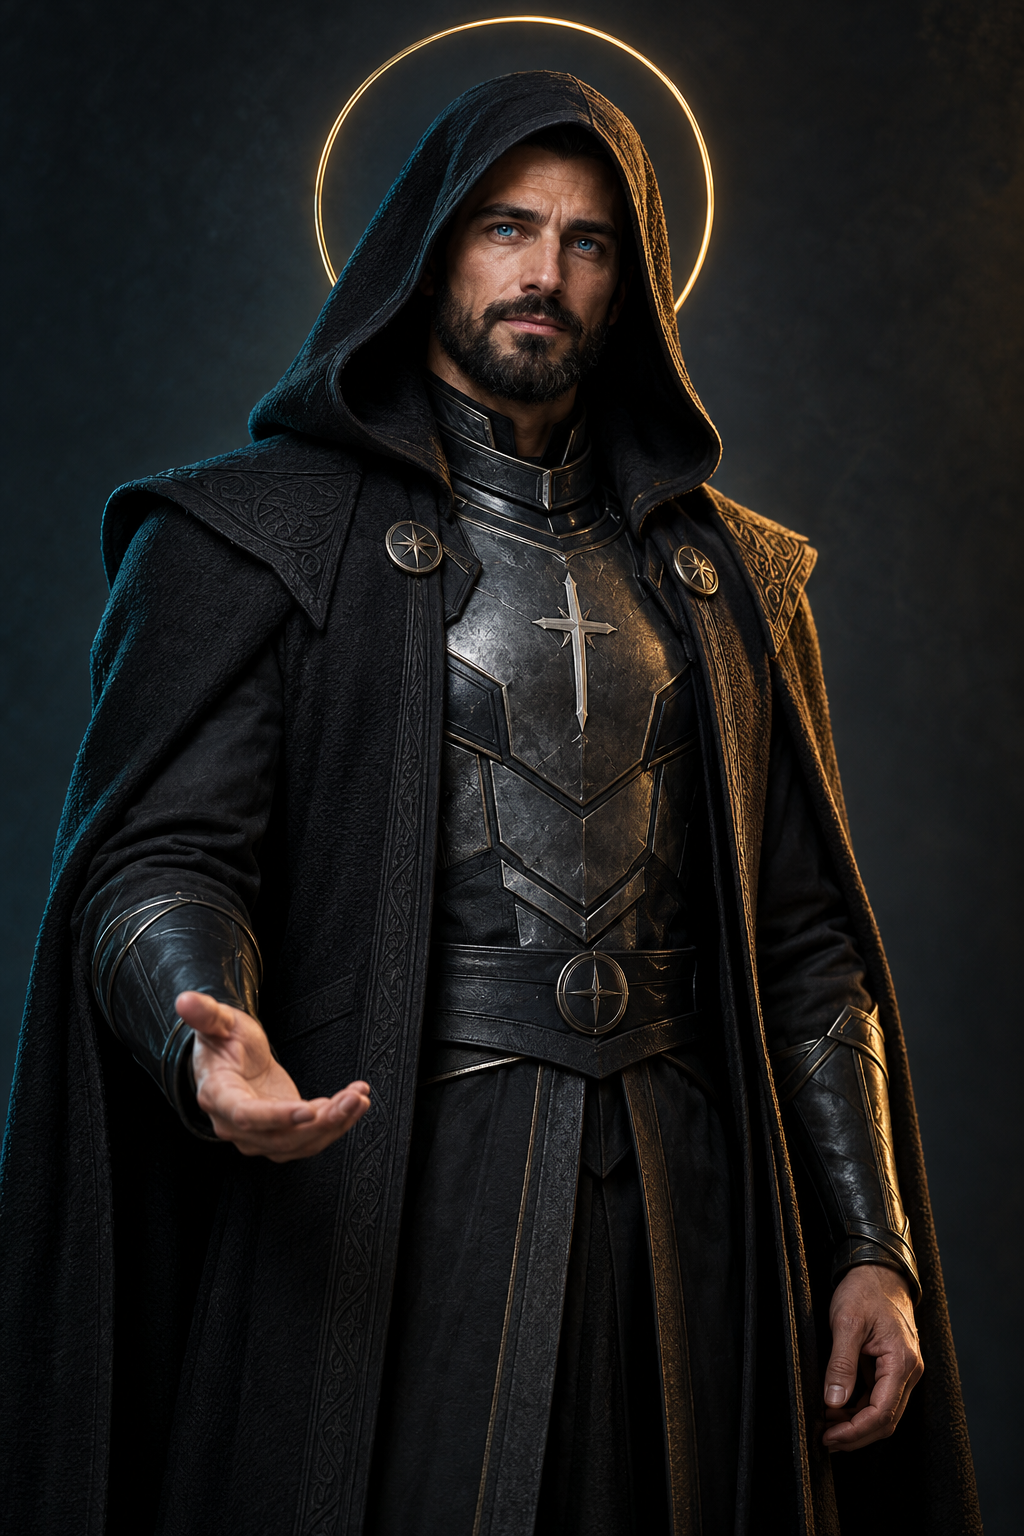
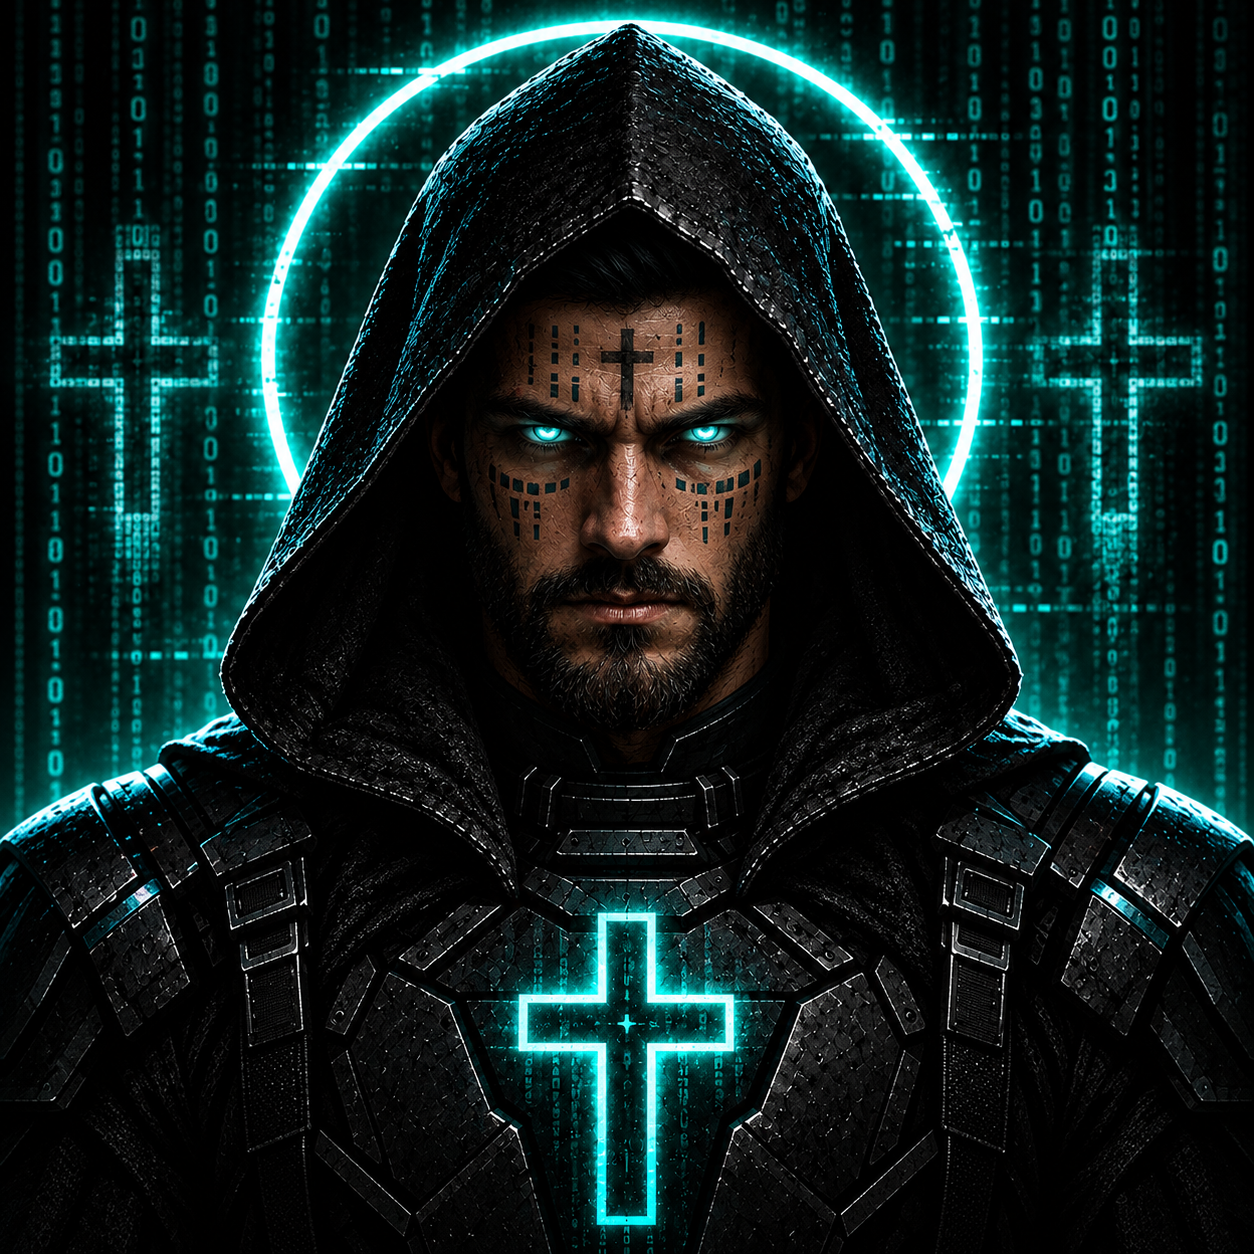
Show both owner-selected Saint Zero Day portraits

diff --git a/README.md b/README.md
@@ -93,18 +93,17 @@ Useful bug reports, clear documentation, accessible UI feedback, and reproducibl
 
 ## From Zero Day Security
 
-<table>
-<tr>
-<td width="220"><img src="assets/brand/saint-zero-day.png" alt="Saint Zero Day, the hooded Zero Day Security character with a gold halo" width="200"></td>
-<td>
-<h3>Saint Zero Day</h3>
-<p>Your machine. Your call.</p>
-<p>Ironclad is a Zero Day Security project, built for Omarchy. Saint Zero Day is the character behind the brand.</p>
-<p><strong><a href="https://szdsecurity.com/">Visit Zero Day Security — szdsecurity.com ↗</a></strong></p>
-<p>Built on the work of the <a href="https://omarchy.org/">Omarchy</a> community, with behavior monitoring from <a href="https://falco.org/">Falco</a> and malware scanning from <a href="https://www.clamav.net/">ClamAV</a>.</p>
-</td>
-</tr>
-</table>
+<p align="center">
+  <img src="assets/brand/saint-zero-day.png" alt="Saint Zero Day facing forward, with a cyan halo and illuminated armor" width="280">
+  &nbsp;
+  <img src="assets/brand/saint-zero-day-gold.png" alt="Saint Zero Day with a gold halo, cyan armor, and SaintZeroDay lettering" width="280">
+</p>
+
+<p align="center"><strong>SAINT ZERO DAY</strong><br>Your machine. Your call.<br><br><a href="https://szdsecurity.com/"><strong>Visit Zero Day Security — szdsecurity.com ↗</strong></a></p>
+
+Ironclad is a Zero Day Security project, built for Omarchy. Saint Zero Day is the character behind the brand.
+
+Built on the work of the [Omarchy](https://omarchy.org/) community, with behavior monitoring from [Falco](https://falco.org/) and malware scanning from [ClamAV](https://www.clamav.net/).
 
 ---
 
